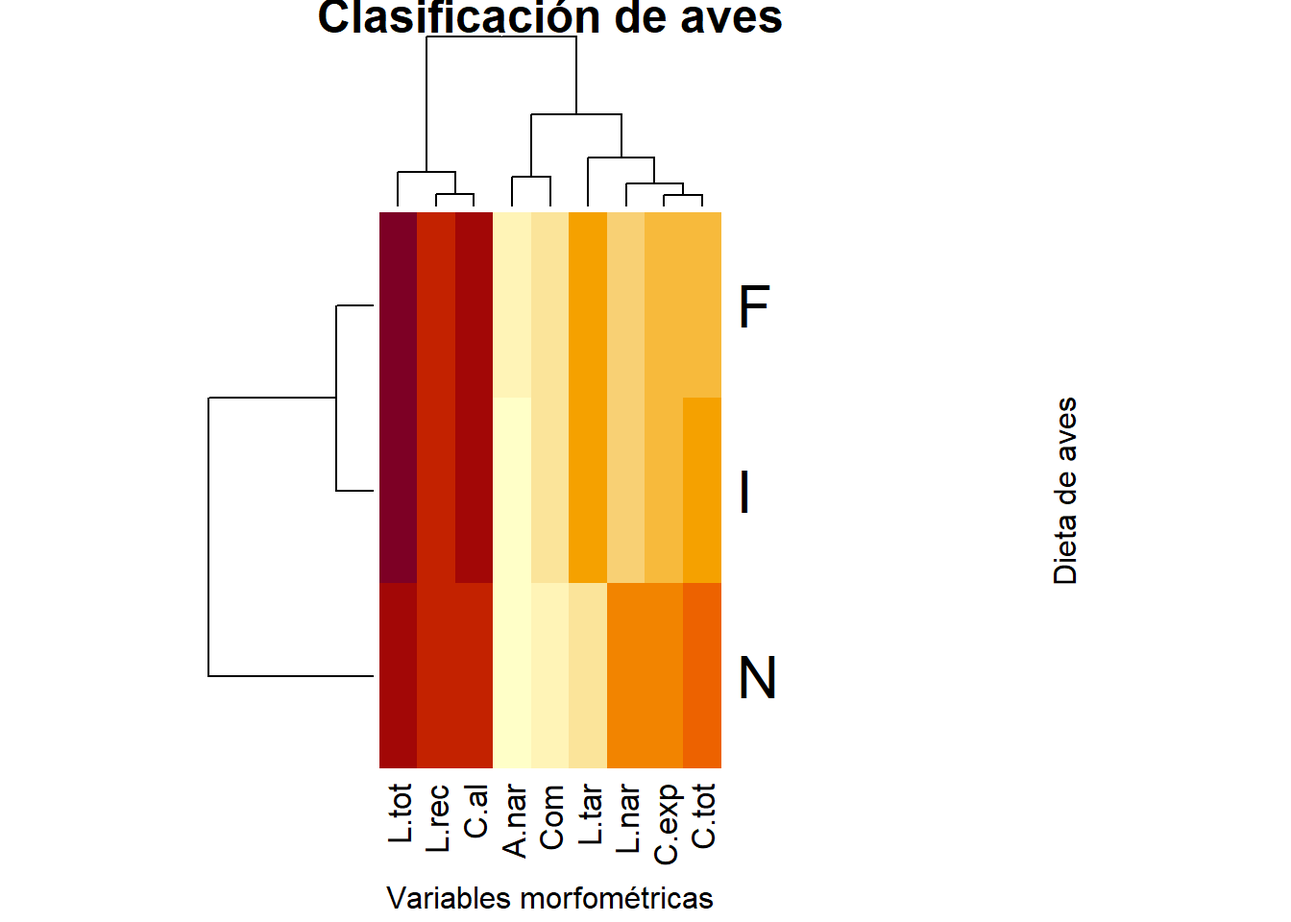
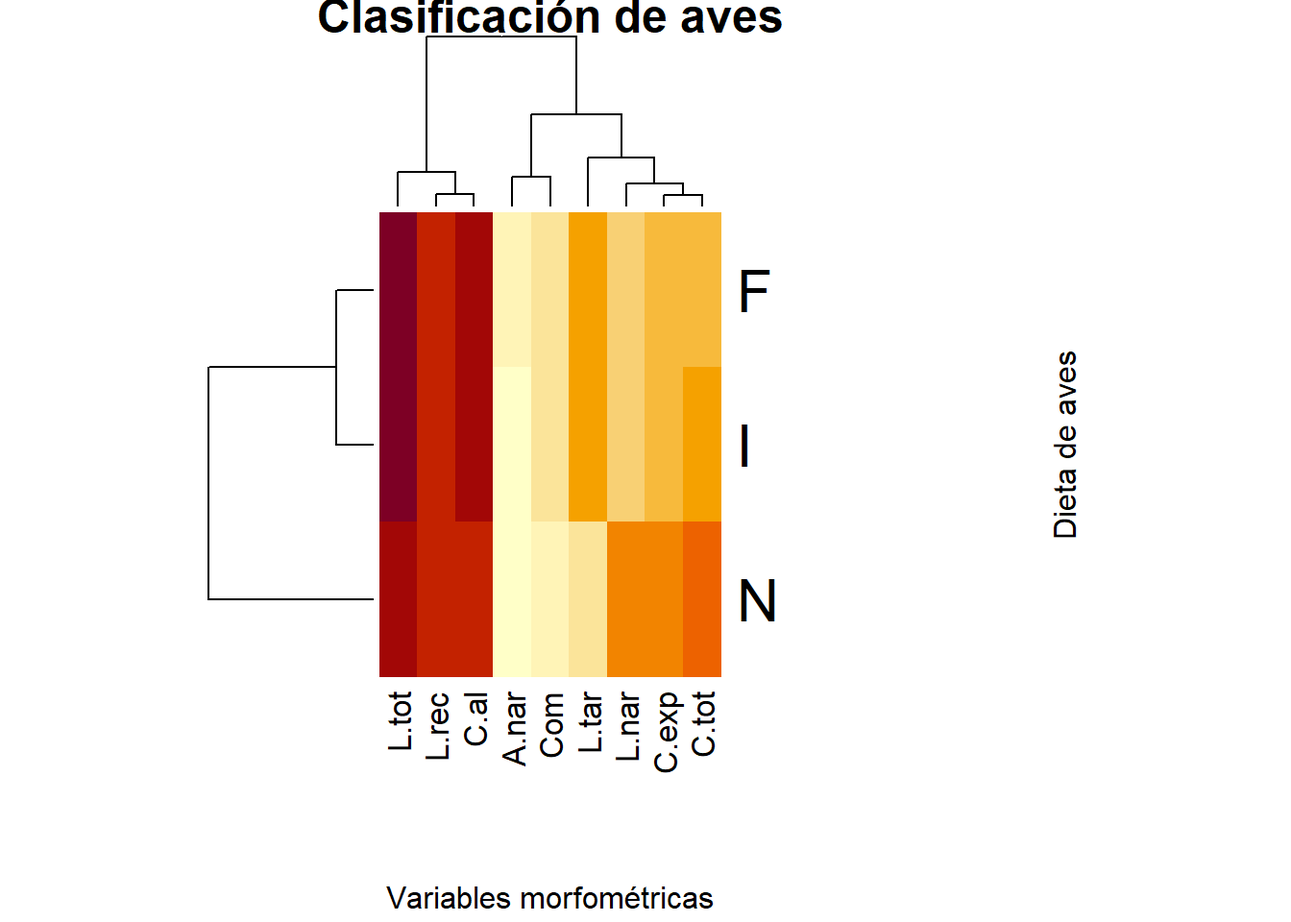
Add files via upload

diff --git a/Taller7.2_LDA/Taller7.2.lda.colibríes.html b/Taller7.2_LDA/Taller7.2.lda.colibríes.html
@@ -7,7 +7,7 @@
 <meta name="viewport" content="width=device-width, initial-scale=1.0, user-scalable=yes">
 
 <meta name="author" content="Javier Rodríguez Barrios">
-<meta name="dcterms.date" content="2023-05-02">
+<meta name="dcterms.date" content="2023-05-03">
 
 <title>Taller 7.2 Análisis Discriminante Lineal - LDA</title>
 <style>
@@ -160,7 +160,7 @@ code span.wa { color: #60a0b0; font-weight: bold; font-style: italic; } /* Warni
     <div>
     <div class="quarto-title-meta-heading">Fecha de publicación</div>
     <div class="quarto-title-meta-contents">
-      <p class="date">May 2, 2023</p>
+      <p class="date">May 3, 2023</p>
     </div>
   </div>
   
@@ -184,7 +184,7 @@ code span.wa { color: #60a0b0; font-weight: bold; font-style: italic; } /* Warni
 <p></p><figcaption class="figure-caption"><n style="color:#1f78b4;"> Imágen tomada de <em><a href="https://as1.ftcdn.net/v2/jpg/05/61/43/20/1000_F_561432029_TFlvDcmtOJ2KOJFjbLJKlCmKlWHi4dJ3.jpg">Katynn</a></em> </n></figcaption><p></p>
 </figure>
 </div>
-<p>El <strong>objetivo</strong> de este ejercicio consiste en evaluar la membresía de cada individuo a su grupo asignado (tipo de dieta) y de igual forma, probar el modelo lineal realizado, para verificar la membresía o discriminar a nuevos individuos en lo que se requiere saber en qué tipo de dieta pueden clasificar. Los archivos que se utilizarán son: 1.aves.ad.r y Aves.csv. La base de datos que se utilizará es <strong>Aves.csv</strong>.</p>
+<p>El <strong>objetivo</strong> de este ejercicio consiste en evaluar la membresía de cada individuo a su grupo asignado (tipo de dieta) y de igual forma, probar el modelo lineal realizado, para verificar la membresía o discriminar a nuevos individuos en lo que se requiere saber en qué tipo de dieta pueden clasificar. La base de datos que se utilizará es <strong>Aves.csv</strong>.</p>
 <p><b style="color:#1f78b4;"></b></p><b style="color:#1f78b4;">
 </b><section id="referencias-bibliográficas-de-apoyo." class="level2"><b style="color:#1f78b4;">
 <h2 class="anchored" data-anchor-id="referencias-bibliográficas-de-apoyo.">Referencias bibliográficas de apoyo.</h2>
@@ -219,7 +219,7 @@ code span.wa { color: #60a0b0; font-weight: bold; font-style: italic; } /* Warni
 </b><section id="cargar-o-importar-la-base-de-datos" class="level3"><b style="color:#1f78b4;">
 <h3 class="anchored" data-anchor-id="cargar-o-importar-la-base-de-datos">Cargar o importar la base de datos</h3>
 </b><p><b style="color:#1f78b4;"></b></p>
-<p>La presente base de datos se encuentra en formato plano de <code>csv</code>, presenta una columna <code>Dieta</code> que agrupa a las 5 Dieta de aves, otra columna <code>Grupo</code>, que asigna un número a cada Dieta y posteriormente a las 19 variables morfométricas y 10 variables meristicas, de las cuales se selecionarán las 19 morfométricas para este ejercicio <code>M.1</code> a <code>M.19</code>.</p>
+<p>La presente base de datos se encuentra en formato plano de <code>csv</code>, presenta una columna <code>Dieta</code> que agrupa a las 5 dietas de aves, otra columna <code>Grupo</code>, que asigna un número a cada dieta y posteriormente a las 19 variables morfométricas y 10 variables meristicas, de las cuales se selecionarán las 19 morfométricas para este ejercicio <code>M.1</code> a <code>M.19</code>.</p>
 <div class="cell">
 <div class="sourceCode cell-code" id="cb2"><pre class="sourceCode r code-with-copy"><code class="sourceCode r"><span id="cb2-1"><a href="#cb2-1" aria-hidden="true" tabindex="-1"></a><span class="co"># Base de datos</span></span>
 <span id="cb2-2"><a href="#cb2-2" aria-hidden="true" tabindex="-1"></a>aves<span class="ot">&lt;-</span><span class="fu">read.csv2</span>(<span class="st">"Aves.csv"</span>,<span class="at">row.names=</span><span class="dv">1</span>)</span>
@@ -233,7 +233,7 @@ code span.wa { color: #60a0b0; font-weight: bold; font-style: italic; } /* Warni
 </div>
 <div class="cell">
 <div class="sourceCode cell-code" id="cb4"><pre class="sourceCode r code-with-copy"><code class="sourceCode r"><span id="cb4-1"><a href="#cb4-1" aria-hidden="true" tabindex="-1"></a><span class="co"># Datos sin columnas taxonómicas</span></span>
-<span id="cb4-2"><a href="#cb4-2" aria-hidden="true" tabindex="-1"></a>aves <span class="ot">=</span> aves[,<span class="sc">-</span><span class="dv">5</span>]    <span class="co"># Eliminar la variable "Dieta.n"</span></span>
+<span id="cb4-2"><a href="#cb4-2" aria-hidden="true" tabindex="-1"></a>aves <span class="ot">=</span> aves[,<span class="sc">-</span><span class="dv">5</span>]    <span class="co"># Eliminar la variable cualitativa "Dieta.n"</span></span>
 <span id="cb4-3"><a href="#cb4-3" aria-hidden="true" tabindex="-1"></a>aves <span class="ot">=</span> aves[,<span class="dv">4</span><span class="sc">:</span><span class="dv">13</span>]  <span class="co"># Base de aves, solo con la variables cuantitativas</span></span>
 <span id="cb4-4"><a href="#cb4-4" aria-hidden="true" tabindex="-1"></a></span>
 <span id="cb4-5"><a href="#cb4-5" aria-hidden="true" tabindex="-1"></a><span class="co"># Convertir "Dieta" a factor</span></span>
@@ -304,7 +304,7 @@ code span.wa { color: #60a0b0; font-weight: bold; font-style: italic; } /* Warni
 </b><section id="exploración-de-los-datos" class="level3"><b style="color:#1f78b4;">
 <h3 class="anchored" data-anchor-id="exploración-de-los-datos">Exploración de los datos</h3>
 </b><p><b style="color:#1f78b4;"></b></p>
-<p>Para este ejemplo se urtilizarán figuras que relacionan parejas de variables y figuras de cajas que permitan visualizar diferencias entre las Dieta de aves de acuerdo a su morfometría. *Para facilidad del ejercicio se seleccionarán algunas variables morfométricas - <code>aves1</code>, debido a que son las que presentan mejores patrones lineales.</p>
+<p>Para este ejemplo se urtilizarán figuras que relacionan parejas de variables y figuras de cajas que permitan visualizar diferencias entre las dietas de aves de acuerdo a su morfometría. *Para facilidad del ejercicio se seleccionarán algunas variables morfométricas - <code>aves1</code>, debido a que son las que presentan mejores patrones lineales.</p>
 <div class="cell">
 <div class="sourceCode cell-code" id="cb12"><pre class="sourceCode r code-with-copy"><code class="sourceCode r"><span id="cb12-1"><a href="#cb12-1" aria-hidden="true" tabindex="-1"></a><span class="co"># Elipses con colores con variables morfométricas</span></span>
 <span id="cb12-2"><a href="#cb12-2" aria-hidden="true" tabindex="-1"></a>aves1 <span class="ot">&lt;-</span> aves1</span>
@@ -344,7 +344,7 @@ code span.wa { color: #60a0b0; font-weight: bold; font-style: italic; } /* Warni
 </div>
 </div>
 </div>
-<p>La <a href="#fig-figura3">Figura&nbsp;3</a> permite visualizar la resolución de cada variable para diferenciar o discriminar a las diferentes Dietas de aves. Esta figura sirve de insumo para descartar aquellas variables con poco potencial de discriminación de las Dietas.</p>
+<p>La <a href="#fig-figura3">Figura&nbsp;3</a> permite visualizar la resolución de cada variable para diferenciar o discriminar a las diferentes dietas de aves. Esta figura sirve de insumo para descartar aquellas variables con poco potencial de discriminación de las dietas.</p>
 <div class="cell">
 <div class="sourceCode cell-code" id="cb15"><pre class="sourceCode r code-with-copy"><code class="sourceCode r"><span id="cb15-1"><a href="#cb15-1" aria-hidden="true" tabindex="-1"></a><span class="co"># Figuras multivariadas de Cajas y bigotes</span></span>
 <span id="cb15-2"><a href="#cb15-2" aria-hidden="true" tabindex="-1"></a><span class="fu">library</span>(reshape)</span>
@@ -369,7 +369,7 @@ code span.wa { color: #60a0b0; font-weight: bold; font-style: italic; } /* Warni
 </b><section id="mapa-de-calor" class="level4"><b style="color:#1f78b4;">
 <h4 class="anchored" data-anchor-id="mapa-de-calor">Mapa de Calor</h4>
 </b><p><b style="color:#1f78b4;"></b></p>
-<p>El siguiente mapa de calor también permite visualizar a la resolución de las variables morfométricas para diferenciar a las Dietas de aves, las cuales representan a los grupos en comparación. Con los siguientes comandos se calculará una tabla que resume a los <code>promedios</code> de las 10 variables morfométricas para cada Dieta evaluada.</p>
+<p>El siguiente mapa de calor también permite visualizar a la resolución de las variables morfométricas para diferenciar a las dietas de aves, las cuales representan a los grupos en comparación. Con los siguientes comandos se calculará una tabla que resume a los <code>promedios</code> de las 10 variables morfométricas para cada dieta evaluada.</p>
 <div class="cell">
 <div class="sourceCode cell-code" id="cb16"><pre class="sourceCode r code-with-copy"><code class="sourceCode r"><span id="cb16-1"><a href="#cb16-1" aria-hidden="true" tabindex="-1"></a><span class="co"># Extracción de los promedios de las variables para cada Dieta</span></span>
 <span id="cb16-2"><a href="#cb16-2" aria-hidden="true" tabindex="-1"></a><span class="fu">library</span>(tidyverse)</span>
@@ -398,17 +398,17 @@ code span.wa { color: #60a0b0; font-weight: bold; font-style: italic; } /* Warni
 3  1.37  1.45  1.33  0.35 0.58  0.76 1.76  1.71  1.91</code></pre>
 </div>
 </div>
-<p>Ahora se incluyen los nombres de las Dietas a la matriz <code>promedios2</code>.</p>
+<p>Ahora se incluyen los nombres de las dietas a la matriz <code>promedios2</code>.</p>
 <div class="cell">
 <div class="sourceCode cell-code" id="cb19"><pre class="sourceCode r code-with-copy"><code class="sourceCode r"><span id="cb19-1"><a href="#cb19-1" aria-hidden="true" tabindex="-1"></a><span class="co"># Asignar los valores de la primera columna de aves1 como nombres de fila en la matriz aves2</span></span>
 <span id="cb19-2"><a href="#cb19-2" aria-hidden="true" tabindex="-1"></a><span class="fu">rownames</span>(promedios2) <span class="ot">&lt;-</span> promedios[,<span class="dv">1</span>]</span></code><button title="Copiar al portapapeles" class="code-copy-button"><i class="bi"></i></button></pre></div>
 </div>
-<p>La <a href="#fig-figura4">Figura&nbsp;4</a> permite visualizar a las variables que mejor discriminan a las Dietas de aves (variables de tonalidad rojiza).</p>
+<p>La <a href="#fig-figura4">Figura&nbsp;4</a> permite visualizar a las variables que mejor discriminan a las dietas de aves (variables de tonalidad rojiza).</p>
 <div class="cell">
 <div class="sourceCode cell-code" id="cb20"><pre class="sourceCode r code-with-copy"><code class="sourceCode r"><span id="cb20-1"><a href="#cb20-1" aria-hidden="true" tabindex="-1"></a><span class="co"># Figura del primer mapa de calor</span></span>
 <span id="cb20-2"><a href="#cb20-2" aria-hidden="true" tabindex="-1"></a><span class="fu">x11</span>()</span>
 <span id="cb20-3"><a href="#cb20-3" aria-hidden="true" tabindex="-1"></a>hv <span class="ot">&lt;-</span> <span class="fu">heatmap</span>(promedios2, </span>
-<span id="cb20-4"><a href="#cb20-4" aria-hidden="true" tabindex="-1"></a>              <span class="at">margins=</span><span class="fu">c</span>(<span class="dv">5</span>,<span class="dv">12</span>), </span>
+<span id="cb20-4"><a href="#cb20-4" aria-hidden="true" tabindex="-1"></a>              <span class="at">margins=</span><span class="fu">c</span>(<span class="dv">8</span>,<span class="dv">12</span>), </span>
 <span id="cb20-5"><a href="#cb20-5" aria-hidden="true" tabindex="-1"></a>              <span class="at">distfun =</span> dist,</span>
 <span id="cb20-6"><a href="#cb20-6" aria-hidden="true" tabindex="-1"></a>              <span class="at">xlab =</span><span class="st">"Variables morfométricas"</span>, </span>
 <span id="cb20-7"><a href="#cb20-7" aria-hidden="true" tabindex="-1"></a>              <span class="at">ylab=</span> <span class="st">"Dieta de aves"</span>, </span>
@@ -417,7 +417,7 @@ code span.wa { color: #60a0b0; font-weight: bold; font-style: italic; } /* Warni
 <div id="fig-figura4" class="quarto-figure quarto-figure-center anchored">
 <figure class="figure">
 <p><img src="Taller7.2.lda.colibríes_files/figure-html/fig-figura4-1.png" class="img-fluid figure-img" width="672"></p>
-<p></p><figcaption class="figure-caption">Figura&nbsp;4: Mapa de calor que relaciona a las variables morfométricas y a las Dietas de aves.</figcaption><p></p>
+<p></p><figcaption class="figure-caption">Figura&nbsp;4: Mapa de calor que relaciona a las variables morfométricas y a las dietas de aves.</figcaption><p></p>
 </figure>
 </div>
 </div>
@@ -446,7 +446,7 @@ code span.wa { color: #60a0b0; font-weight: bold; font-style: italic; } /* Warni
 <div id="fig-figura5" class="quarto-figure quarto-figure-center anchored">
 <figure class="figure">
 <p><img src="Taller7.2.lda.colibríes_files/figure-html/fig-figura5-1.png" class="img-fluid figure-img" width="672"></p>
-<p></p><figcaption class="figure-caption">Figura&nbsp;5: Mapa de calor que relaciona a las variables morfométricas y a las Dietas de aves.</figcaption><p></p>
+<p></p><figcaption class="figure-caption">Figura&nbsp;5: Mapa de calor que relaciona a las variables morfométricas y a las dietas de aves.</figcaption><p></p>
 </figure>
 </div>
 </div>
@@ -463,19 +463,19 @@ code span.wa { color: #60a0b0; font-weight: bold; font-style: italic; } /* Warni
 </b><section id="paso-1.-pruebas-de-supuestos" class="level2"><b style="color:#1f78b4;">
 <h2 class="anchored" data-anchor-id="paso-1.-pruebas-de-supuestos">Paso 1. Pruebas de supuestos</h2>
 </b><p><b style="color:#1f78b4;"></b></p>
-<p>Para que el análisis discriminante lineal sea considerado como un modelo lineal, debe cumplir con los supuestos de normalidad multivariada y de homogeneidad de covarianzas. Para el caso del presente ejercicio, dichos supuestos no alcanzan a cumplirse con los diagnosticos utilizados (valor p &lt; 0.05), motivo por el cual, el lda de este ejercicio será tomado como una técnica de exploración moltivariada para saber que tan bien discriminados quedan los individuos de cada Dieta, basado en las 10 variables morfomètricas seleccionadas.</p>
+<p>Para que el análisis discriminante lineal sea considerado como un modelo lineal, debe cumplir con los supuestos de normalidad multivariada y de homogeneidad de covarianzas. Para el caso del presente ejercicio, dichos supuestos no alcanzan a cumplirse con los diagnosticos utilizados (valor p &gt; 0.05), motivo por el cual, el lda de este ejercicio será tomado como una técnica de exploración moltivariada para saber que tan bien discriminados quedan los individuos de cada dieta, basado en las 9 variables morfométricas seleccionadas.</p>
 <p><b style="color:#1f78b4;"></b></p><b style="color:#1f78b4;">
 </b><section id="supuesto-de-normalidad" class="level3"><b style="color:#1f78b4;">
 <h3 class="anchored" data-anchor-id="supuesto-de-normalidad">1.1 Supuesto de normalidad</h3>
 </b><p><b style="color:#1f78b4;"></b></p>
-<p>El supuesto de normalidad multivariada será evaluado con el paquete <code>mvnormtest</code>, el cual utiliza el estadìstico de <code>Shapiro Wilks Multivariado</code>. Para ello se realizarà esta prueba en cada uno de los grupos o Dietas en comparación.</p>
+<p>El supuesto de normalidad multivariada será evaluado con el paquete <code>mvnormtest</code>, el cual utiliza el estadìstico de <code>Shapiro Wilks Multivariado</code>. Para ello se realizará esta prueba en cada uno de los grupos o dietas en comparación.</p>
 <div class="cell">
 <div class="sourceCode cell-code" id="cb23"><pre class="sourceCode r code-with-copy"><code class="sourceCode r"><span id="cb23-1"><a href="#cb23-1" aria-hidden="true" tabindex="-1"></a><span class="co"># Diagnóstico de normalidad por cada tipo de Dieta</span></span>
 <span id="cb23-2"><a href="#cb23-2" aria-hidden="true" tabindex="-1"></a><span class="fu">library</span>(mvnormtest)</span></code><button title="Copiar al portapapeles" class="code-copy-button"><i class="bi"></i></button></pre></div>
 </div>
-<p>Los siguientes generan los dataframes de cada Dieta con las 10 variables seleccionadas, convirtiendola ademàs en formato matricial.</p>
+<p>Los siguientes generan los dataframes de cada dieta con las 9 variables seleccionadas, convirtiendola además en formato matricial.</p>
 <div class="cell">
-<div class="sourceCode cell-code" id="cb24"><pre class="sourceCode r code-with-copy"><code class="sourceCode r"><span id="cb24-1"><a href="#cb24-1" aria-hidden="true" tabindex="-1"></a><span class="co"># Dataframe por cada Dieta</span></span>
+<div class="sourceCode cell-code" id="cb24"><pre class="sourceCode r code-with-copy"><code class="sourceCode r"><span id="cb24-1"><a href="#cb24-1" aria-hidden="true" tabindex="-1"></a><span class="co"># Dataframe por cada dieta</span></span>
 <span id="cb24-2"><a href="#cb24-2" aria-hidden="true" tabindex="-1"></a></span>
 <span id="cb24-3"><a href="#cb24-3" aria-hidden="true" tabindex="-1"></a><span class="fu">summary</span>(aves)</span></code><button title="Copiar al portapapeles" class="code-copy-button"><i class="bi"></i></button></pre></div>
 <div class="cell-output cell-output-stdout">
@@ -516,7 +516,7 @@ code span.wa { color: #60a0b0; font-weight: bold; font-style: italic; } /* Warni
 <span id="cb26-13"><a href="#cb26-13" aria-hidden="true" tabindex="-1"></a>             <span class="fu">filter</span>(Dieta <span class="sc">==</span> <span class="st">"N"</span>) <span class="sc">%&gt;%</span>       </span>
 <span id="cb26-14"><a href="#cb26-14" aria-hidden="true" tabindex="-1"></a>             <span class="fu">subset</span>(<span class="at">select =</span> <span class="fu">c</span>(<span class="st">"C.exp"</span>,<span class="st">"C.tot"</span>,<span class="st">"L.nar"</span>,<span class="st">"A.nar"</span>,<span class="st">"Com"</span>,<span class="st">"L.tar"</span>,<span class="st">"C.al"</span>,<span class="st">"L.rec"</span>,<span class="st">"L.tot"</span>)) <span class="sc">%&gt;%</span>              <span class="fu">as.matrix</span>()     </span></code><button title="Copiar al portapapeles" class="code-copy-button"><i class="bi"></i></button></pre></div>
 </div>
-<p>Vale la pena resaltar que los datos de las Dietas F y N, son singulares, por lo cual no puede calcularse su supuesto de normalidad multivariada. Con el objeto de continuar en el ejercicio, las matrices que representan a las Dietas en menciòn, seràn desactivadas con <code>#</code>.</p>
+<p>Cálculo de los diagnósticos de normalidad multivariada de cada grupo de dietas de las aves.</p>
 <div class="cell">
 <div class="sourceCode cell-code" id="cb27"><pre class="sourceCode r code-with-copy"><code class="sourceCode r"><span id="cb27-1"><a href="#cb27-1" aria-hidden="true" tabindex="-1"></a><span class="co"># Prueba de normalidad para cada Dieta</span></span>
 <span id="cb27-2"><a href="#cb27-2" aria-hidden="true" tabindex="-1"></a></span>
@@ -524,7 +524,7 @@ code span.wa { color: #60a0b0; font-weight: bold; font-style: italic; } /* Warni
 <span id="cb27-4"><a href="#cb27-4" aria-hidden="true" tabindex="-1"></a>norm2 <span class="ot">&lt;-</span> <span class="fu">mshapiro.test</span>(<span class="fu">t</span>(Dieta.i))</span>
 <span id="cb27-5"><a href="#cb27-5" aria-hidden="true" tabindex="-1"></a>norm3 <span class="ot">&lt;-</span> <span class="fu">mshapiro.test</span>(<span class="fu">t</span>(Dieta.n)) </span></code><button title="Copiar al portapapeles" class="code-copy-button"><i class="bi"></i></button></pre></div>
 </div>
-<p>A continuación se resume el resultado de los tres diagnósticos de normalidad multivariada realizados. Vale la pena mencionar que ninguna Dieta cumple con dicho supuesto estadóstico (valores p &lt; 0.05), aunque existe la posibilidad de probar con alguna transformación.</p>
+<p>A continuación se resume el resultado de los tres diagnósticos de normalidad multivariada realizados. Vale la pena mencionar que ninguna dieta cumple con dicho supuesto estadístico (valores p &lt; 0.05), aunque existe la posibilidad de probar con alguna transformación.</p>
 <div class="cell">
 <div class="sourceCode cell-code" id="cb28"><pre class="sourceCode r code-with-copy"><code class="sourceCode r"><span id="cb28-1"><a href="#cb28-1" aria-hidden="true" tabindex="-1"></a><span class="co"># Resumen de el diagnóstico de normalidad</span></span>
 <span id="cb28-2"><a href="#cb28-2" aria-hidden="true" tabindex="-1"></a><span class="fu">round</span>((<span class="at">normalidad =</span> <span class="fu">data.frame</span>(<span class="at">Norm.Dieta.f =</span> norm1<span class="sc">$</span>p.value,</span>
@@ -547,7 +547,7 @@ code span.wa { color: #60a0b0; font-weight: bold; font-style: italic; } /* Warni
 <span id="cb30-2"><a href="#cb30-2" aria-hidden="true" tabindex="-1"></a>aves.d <span class="ot">&lt;-</span> <span class="fu">dist</span>(aves[,<span class="fu">c</span>(<span class="dv">2</span><span class="sc">:</span><span class="dv">10</span>)])              <span class="co"># Matriz de distancias</span></span>
 <span id="cb30-3"><a href="#cb30-3" aria-hidden="true" tabindex="-1"></a>aves.homoge <span class="ot">&lt;-</span> <span class="fu">betadisper</span>(aves.d, aves<span class="sc">$</span>Dieta)   <span class="co"># Permutest</span></span></code><button title="Copiar al portapapeles" class="code-copy-button"><i class="bi"></i></button></pre></div>
 </div>
-<p>Con la siguiente <code>anova</code> se obtiene un valor p de 0.016*, lo cual indica que se cumple el supuesto de homogeneidad de covarianzas (valor p &lt; 0.05).</p>
+<p>Con la siguiente <code>anova</code> se obtiene un valor p de 0.56*, lo cual indica que SI se cumple el supuesto de homogeneidad de covarianzas (valor p &lt; 0.05).</p>
 <div class="cell">
 <div class="sourceCode cell-code" id="cb31"><pre class="sourceCode r code-with-copy"><code class="sourceCode r"><span id="cb31-1"><a href="#cb31-1" aria-hidden="true" tabindex="-1"></a><span class="co"># 1) Prueba con anova permutacional</span></span>
 <span id="cb31-2"><a href="#cb31-2" aria-hidden="true" tabindex="-1"></a><span class="fu">anova</span>(aves.homoge)  </span></code><button title="Copiar al portapapeles" class="code-copy-button"><i class="bi"></i></button></pre></div>
@@ -560,7 +560,7 @@ Groups     2 0.0885 0.044226  0.5726 0.5664
 Residuals 79 6.1012 0.077231               </code></pre>
 </div>
 </div>
-<p>Con el <code>permutest</code> se obtiene un valor p de 0.015*, lo cual indica que se cumple el supuesto de homogeneidad de covarianzas (valor p &lt; 0.05).</p>
+<p>Con el <code>permutest</code> se obtiene un valor p de 0.56*, lo cual indica que SI se cumple el supuesto de homogeneidad de covarianzas (valor p &lt; 0.05).</p>
 <div class="cell">
 <div class="sourceCode cell-code" id="cb33"><pre class="sourceCode r code-with-copy"><code class="sourceCode r"><span id="cb33-1"><a href="#cb33-1" aria-hidden="true" tabindex="-1"></a><span class="co"># 2) Prueba permutacional</span></span>
 <span id="cb33-2"><a href="#cb33-2" aria-hidden="true" tabindex="-1"></a><span class="fu">permutest</span>(aves.homoge)   <span class="co"># Se cumple el supuesto de homogeneidad </span></span></code><button title="Copiar al portapapeles" class="code-copy-button"><i class="bi"></i></button></pre></div>
@@ -572,7 +572,7 @@ Number of permutations: 999
 
 Response: Distances
           Df Sum Sq  Mean Sq      F N.Perm Pr(&gt;F)
-Groups     2 0.0885 0.044226 0.5726    999  0.556
+Groups     2 0.0885 0.044226 0.5726    999  0.592
 Residuals 79 6.1012 0.077231                     </code></pre>
 </div>
 </div>
@@ -582,7 +582,7 @@ Residuals 79 6.1012 0.077231                     </code></pre>
 </b><section id="paso-2.-análisis-discriminante-lineal-de-fisher---lda" class="level2"><b style="color:#1f78b4;">
 <h2 class="anchored" data-anchor-id="paso-2.-análisis-discriminante-lineal-de-fisher---lda">Paso 2. Análisis Discriminante Lineal de Fisher - LDA</h2>
 </b><p><b style="color:#1f78b4;"></b></p>
-<p>A continuación, se realizará el lda, que permitirá generar definir al nivel de discriminación de cada grupo o Dieta de pez. Se presentan algunas opciones gráficas con el procedimiento general y con el análisis discriminate canónico (dca)</p>
+<p>A continuación, se realizará el lda, que permitirá generar definir al nivel de discriminación de cada grupo o dieta de colibríes. Se presentan algunas opciones gráficas con el procedimiento general y con el análisis discriminate canónico (dca)</p>
 <div class="cell">
 <div class="sourceCode cell-code" id="cb35"><pre class="sourceCode r code-with-copy"><code class="sourceCode r"><span id="cb35-1"><a href="#cb35-1" aria-hidden="true" tabindex="-1"></a><span class="co"># Cálculo del LDA</span></span>
 <span id="cb35-2"><a href="#cb35-2" aria-hidden="true" tabindex="-1"></a><span class="fu">names</span>(aves)</span></code><button title="Copiar al portapapeles" class="code-copy-button"><i class="bi"></i></button></pre></div>
@@ -598,14 +598,14 @@ Residuals 79 6.1012 0.077231                     </code></pre>
 0.27 0.60 0.13 </code></pre>
 </div>
 </div>
-<p>“<em>Prior probabilities of groups</em>” corresponde a la probabilidad de clasificación para cada grupo que dependerá del número de aves que lo conforman, aqueyas Dietas con mayor número de individuos censados, presentarán mayor probabilidad de discriminación.</p>
+<p>“<em>Prior probabilities of groups</em>” corresponde a la probabilidad de clasificación para cada grupo que dependerá del número de aves que lo conforman, aquellas dietas con mayor número de individuos censados, presentarán mayor probabilidad de discriminación.</p>
 <p>Prbabilidad de clasificar indv. de los cinco grupos: F I N<br>
 0.27 0.60 0.13</p>
 <div class="cell">
 <div class="sourceCode cell-code" id="cb39"><pre class="sourceCode r code-with-copy"><code class="sourceCode r"><span id="cb39-1"><a href="#cb39-1" aria-hidden="true" tabindex="-1"></a><span class="co"># Insumos del AD </span></span>
 <span id="cb39-2"><a href="#cb39-2" aria-hidden="true" tabindex="-1"></a><span class="co"># summary(dis)</span></span></code><button title="Copiar al portapapeles" class="code-copy-button"><i class="bi"></i></button></pre></div>
 </div>
-<p>A continuación se presentan los promedios de cada Dieta por cada variable morfométrica seleccionada para el análisis.</p>
+<p>A continuación se presentan los promedios de cada dieta por cada variable morfométrica seleccionada para el análisis.</p>
 <div class="cell">
 <div class="sourceCode cell-code" id="cb40"><pre class="sourceCode r code-with-copy"><code class="sourceCode r"><span id="cb40-1"><a href="#cb40-1" aria-hidden="true" tabindex="-1"></a><span class="co">#Grupos de medias para las 4 variables </span></span>
 <span id="cb40-2"><a href="#cb40-2" aria-hidden="true" tabindex="-1"></a><span class="fu">round</span>(dis<span class="sc">$</span>means,<span class="dv">2</span>)</span></code><button title="Copiar al portapapeles" class="code-copy-button"><i class="bi"></i></button></pre></div>
@@ -647,7 +647,7 @@ L.tot -1.16 -1.93</code></pre>
 32  0.22  2.71</code></pre>
 </div>
 </div>
-<p>La siguiente tabla es conocida como <strong>tabla de contingencia</strong> la cual realiza una validación cruzada entre las Dietas (filas) y los grupos discriminados por el lda (columnas). De acuerdo a esta tabla <em>F</em> e <em>I</em> no discriminan a todos sus individuos en su grupo, debido a que hay individuos de estas aves que presentan una morfometría más similar a otros grupos.</p>
+<p>La siguiente tabla es conocida como <strong>tabla de contingencia</strong> la cual realiza una validación cruzada entre las dietas (filas) y los grupos discriminados por el lda (columnas). De acuerdo a esta tabla <em>F</em> e <em>I</em> no discriminan a todos sus individuos en su grupo, debido a que hay individuos de estas aves que presentan una morfometría más similar a otros grupos.</p>
 <div class="cell">
 <div class="sourceCode cell-code" id="cb46"><pre class="sourceCode r code-with-copy"><code class="sourceCode r"><span id="cb46-1"><a href="#cb46-1" aria-hidden="true" tabindex="-1"></a><span class="co"># Evaluación de desempeño del AD (método 1)</span></span>
 <span id="cb46-2"><a href="#cb46-2" aria-hidden="true" tabindex="-1"></a><span class="fu">attach</span>(aves)</span>
@@ -661,7 +661,7 @@ Dieta  F  I  N
     N  0  0 11</code></pre>
 </div>
 </div>
-<p>La siguiente tabla realiza una validación en términos porcentuales, definiendo que en los casos de <em>F</em> e <em>I</em> donde el 55% y el 88% de sus individuos discriminan correctamente en su Dieta. La dieta N presenta una discriminación completa en su grupo.</p>
+<p>La siguiente tabla realiza una validación en términos porcentuales, definiendo que en los casos de <em>F</em> e <em>I</em> donde el 55% y el 88% de sus individuos discriminan correctamente en su dieta. La dieta N presenta una discriminación completa en su grupo.</p>
 <div class="cell">
 <div class="sourceCode cell-code" id="cb48"><pre class="sourceCode r code-with-copy"><code class="sourceCode r"><span id="cb48-1"><a href="#cb48-1" aria-hidden="true" tabindex="-1"></a><span class="co"># Porcentaje de clasificación correcta </span></span>
 <span id="cb48-2"><a href="#cb48-2" aria-hidden="true" tabindex="-1"></a><span class="fu">round</span>(<span class="fu">diag</span>(<span class="fu">prop.table</span>(tabla, <span class="dv">1</span>)),<span class="dv">2</span>)<span class="sc">*</span><span class="dv">100</span></span></code><button title="Copiar al portapapeles" class="code-copy-button"><i class="bi"></i></button></pre></div>
@@ -705,7 +705,7 @@ Dieta  F  I  N
 <li>** 3.1 Gráfico de elipses.**</li>
 </ul>
 </b><p><b style="color:#1f78b4;"></b></p>
-<p>A continuación se realizará el componente grafico del lda, el cual inicia con una figura que definirá unas elipses, las cuales relacionan a los individuos de cada Dieta y cuyo solapamiento definirá el nivel de relación entre estas.</p>
+<p>A continuación se realizará el componente grafico del lda, el cual inicia con una figura que definirá unas elipses, las cuales relacionan a los individuos de cada dieta y cuyo solapamiento definirá el nivel de relación entre estas.</p>
 <div class="cell">
 <div class="sourceCode cell-code" id="cb55"><pre class="sourceCode r code-with-copy"><code class="sourceCode r"><span id="cb55-1"><a href="#cb55-1" aria-hidden="true" tabindex="-1"></a><span class="co"># Escores o coordenadas de las observaciones en cada eje can?nico</span></span>
 <span id="cb55-2"><a href="#cb55-2" aria-hidden="true" tabindex="-1"></a>Fp <span class="ot">&lt;-</span> <span class="fu">predict</span>(dis)<span class="sc">$</span>x</span></code><button title="Copiar al portapapeles" class="code-copy-button"><i class="bi"></i></button></pre></div>
@@ -718,7 +718,7 @@ Dieta  F  I  N
 <div class="sourceCode cell-code" id="cb57"><pre class="sourceCode r code-with-copy"><code class="sourceCode r"><span id="cb57-1"><a href="#cb57-1" aria-hidden="true" tabindex="-1"></a><span class="co"># Coordenadas y grupos asignados</span></span>
 <span id="cb57-2"><a href="#cb57-2" aria-hidden="true" tabindex="-1"></a>aves.coord<span class="ot">=</span><span class="fu">data.frame</span>(<span class="at">Dieta=</span>group,Fp)</span></code><button title="Copiar al portapapeles" class="code-copy-button"><i class="bi"></i></button></pre></div>
 </div>
-<p>La <a href="#fig-figura6">Figura&nbsp;6</a> demuestra que si bien de presenta una buena discriminación de las Dietas de aves, 4 de las 5 evaluadas presentan cierta relación, definida por el solapamiento de sus elipses.</p>
+<p>La <a href="#fig-figura6">Figura&nbsp;6</a> demuestra que si bien de presenta una buena discriminación de las dietas de aves, 2 de las 3 evaluadas presentan cierta relación, definida por el solapamiento de sus elipses.</p>
 <div class="cell">
 <div class="sourceCode cell-code" id="cb58"><pre class="sourceCode r code-with-copy"><code class="sourceCode r"><span id="cb58-1"><a href="#cb58-1" aria-hidden="true" tabindex="-1"></a><span class="co"># Figura del LDA</span></span>
 <span id="cb58-2"><a href="#cb58-2" aria-hidden="true" tabindex="-1"></a><span class="fu">attach</span>(aves)</span>
@@ -735,7 +735,7 @@ Dieta  F  I  N
 <div id="fig-figura6" class="quarto-figure quarto-figure-center anchored">
 <figure class="figure">
 <p><img src="Taller7.2.lda.colibríes_files/figure-html/fig-figura6-1.png" class="img-fluid figure-img" width="672"></p>
-<p></p><figcaption class="figure-caption">Figura&nbsp;6: Mapa de calor que relaciona a las variables morfométricas y a las Dietas de aves.</figcaption><p></p>
+<p></p><figcaption class="figure-caption">Figura&nbsp;6: Mapa de calor que relaciona a las variables morfométricas y a las dietas de aves.</figcaption><p></p>
 </figure>
 </div>
 </div>
@@ -745,7 +745,7 @@ Dieta  F  I  N
 <li>** 3.2 Gráfico del discriminante canónico - cda**</li>
 </ul>
 </b><p><b style="color:#1f78b4;"></b></p>
-<p>El siguiente análisis permite visualizar la influencia de cada variable morfométrica en la separación de los grupos de Dietas y selecciona a las variables que presentan más influencia en la discriminación de los aves.</p>
+<p>El siguiente análisis permite visualizar la influencia de cada variable morfométrica en la separación de los grupos de dietas y selecciona a las variables que presentan más influencia en la discriminación de esos grupos.</p>
 <div class="cell">
 <div class="sourceCode cell-code" id="cb59"><pre class="sourceCode r code-with-copy"><code class="sourceCode r"><span id="cb59-1"><a href="#cb59-1" aria-hidden="true" tabindex="-1"></a><span class="fu">attach</span>(aves)</span>
 <span id="cb59-2"><a href="#cb59-2" aria-hidden="true" tabindex="-1"></a><span class="fu">names</span>(aves)</span></code><button title="Copiar al portapapeles" class="code-copy-button"><i class="bi"></i></button></pre></div>
@@ -768,7 +768,7 @@ Dieta  F  I  N
 <div class="sourceCode cell-code" id="cb63"><pre class="sourceCode r code-with-copy"><code class="sourceCode r"><span id="cb63-1"><a href="#cb63-1" aria-hidden="true" tabindex="-1"></a><span class="co"># Análisis discriminante canónico - ADC</span></span>
 <span id="cb63-2"><a href="#cb63-2" aria-hidden="true" tabindex="-1"></a>can <span class="ot">&lt;-</span> <span class="fu">candisc</span>(mod, <span class="at">term=</span><span class="st">"Dieta"</span>,<span class="at">data=</span>aves,<span class="at">ndim=</span><span class="dv">1</span>)</span></code><button title="Copiar al portapapeles" class="code-copy-button"><i class="bi"></i></button></pre></div>
 </div>
-<p>A continuación se presenta la figura que define a la discriminación de las Dietas con un solo eje canónico el cual explica el 81.8% de la variación de los datos. La orientación de los vectores (variables morfométricas), en relación a las cajas, indica su importancia para discriminar a cada Dieta o grupo en comparación.</p>
+<p>A continuación se presenta la figura que define a la discriminación de las dietas con un solo eje canónico el cual explica el 95% de la variación de los datos. La orientación de los vectores (variables morfométricas), en relación a las cajas, indica su importancia para discriminar a cada dieta o grupo en comparación.</p>
 <div class="cell">
 <div class="sourceCode cell-code" id="cb64"><pre class="sourceCode r code-with-copy"><code class="sourceCode r"><span id="cb64-1"><a href="#cb64-1" aria-hidden="true" tabindex="-1"></a><span class="fu">x11</span>()</span>
 <span id="cb64-2"><a href="#cb64-2" aria-hidden="true" tabindex="-1"></a><span class="fu">plot</span>(can,<span class="at">titles.1d =</span> <span class="fu">c</span>(<span class="st">"Puntuación canónica"</span>, <span class="st">"Estructura"</span>))</span></code><button title="Copiar al portapapeles" class="code-copy-button"><i class="bi"></i></button></pre></div>
@@ -776,7 +776,7 @@ Dieta  F  I  N
 <div id="fig-figura7" class="quarto-figure quarto-figure-center anchored">
 <figure class="figure">
 <p><img src="Taller7.2.lda.colibríes_files/figure-html/fig-figura7-1.png" class="img-fluid figure-img" width="672"></p>
-<p></p><figcaption class="figure-caption">Figura&nbsp;7: Mapa de calor que relaciona a las variables morfométricas y a las Dietas de aves.</figcaption><p></p>
+<p></p><figcaption class="figure-caption">Figura&nbsp;7: Discriminante de los grupos de dietas con un eje canónico.</figcaption><p></p>
 </figure>
 </div>
 </div>
